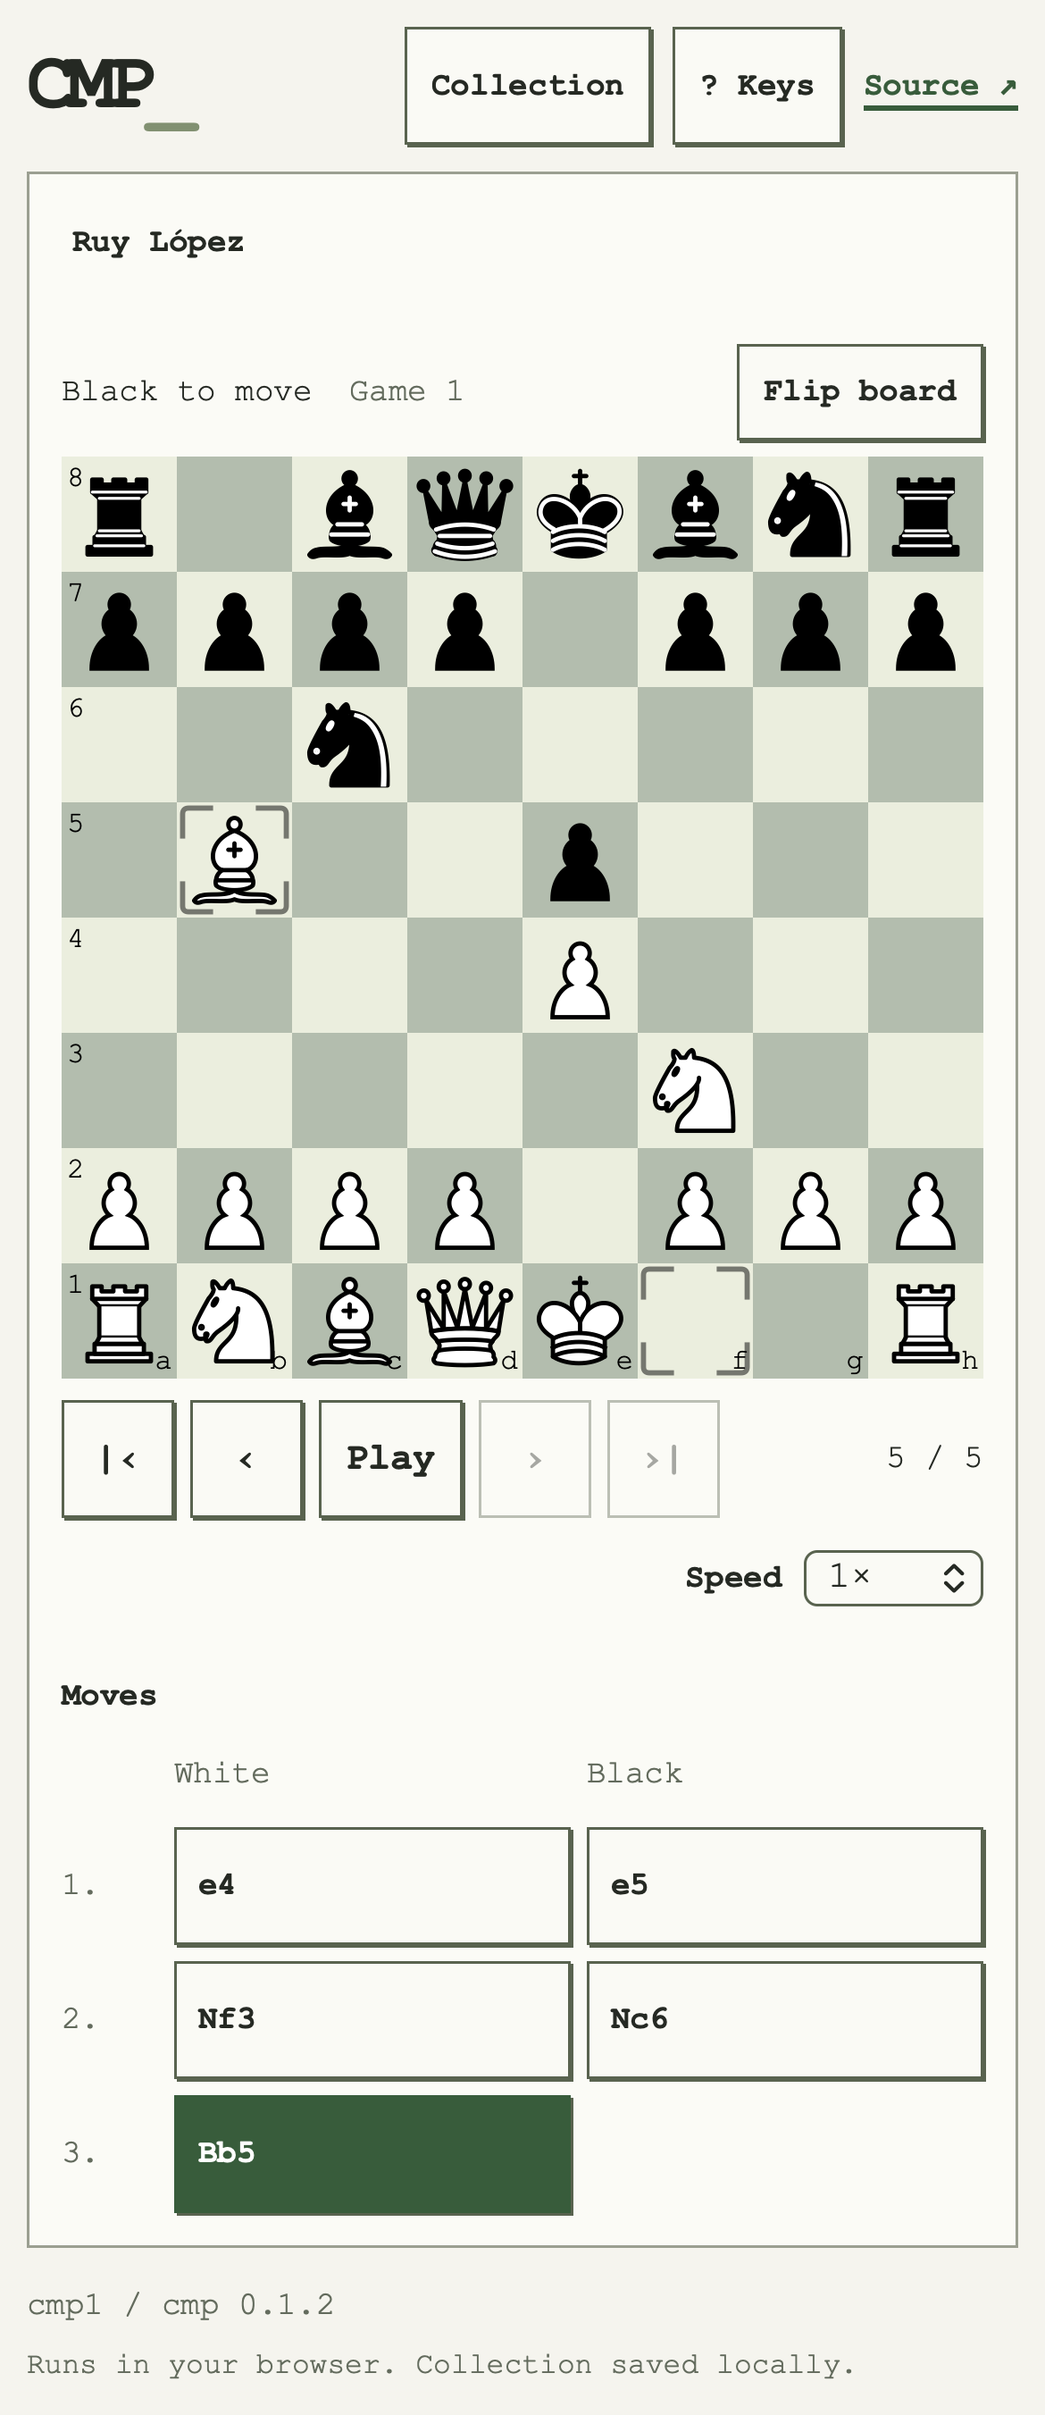
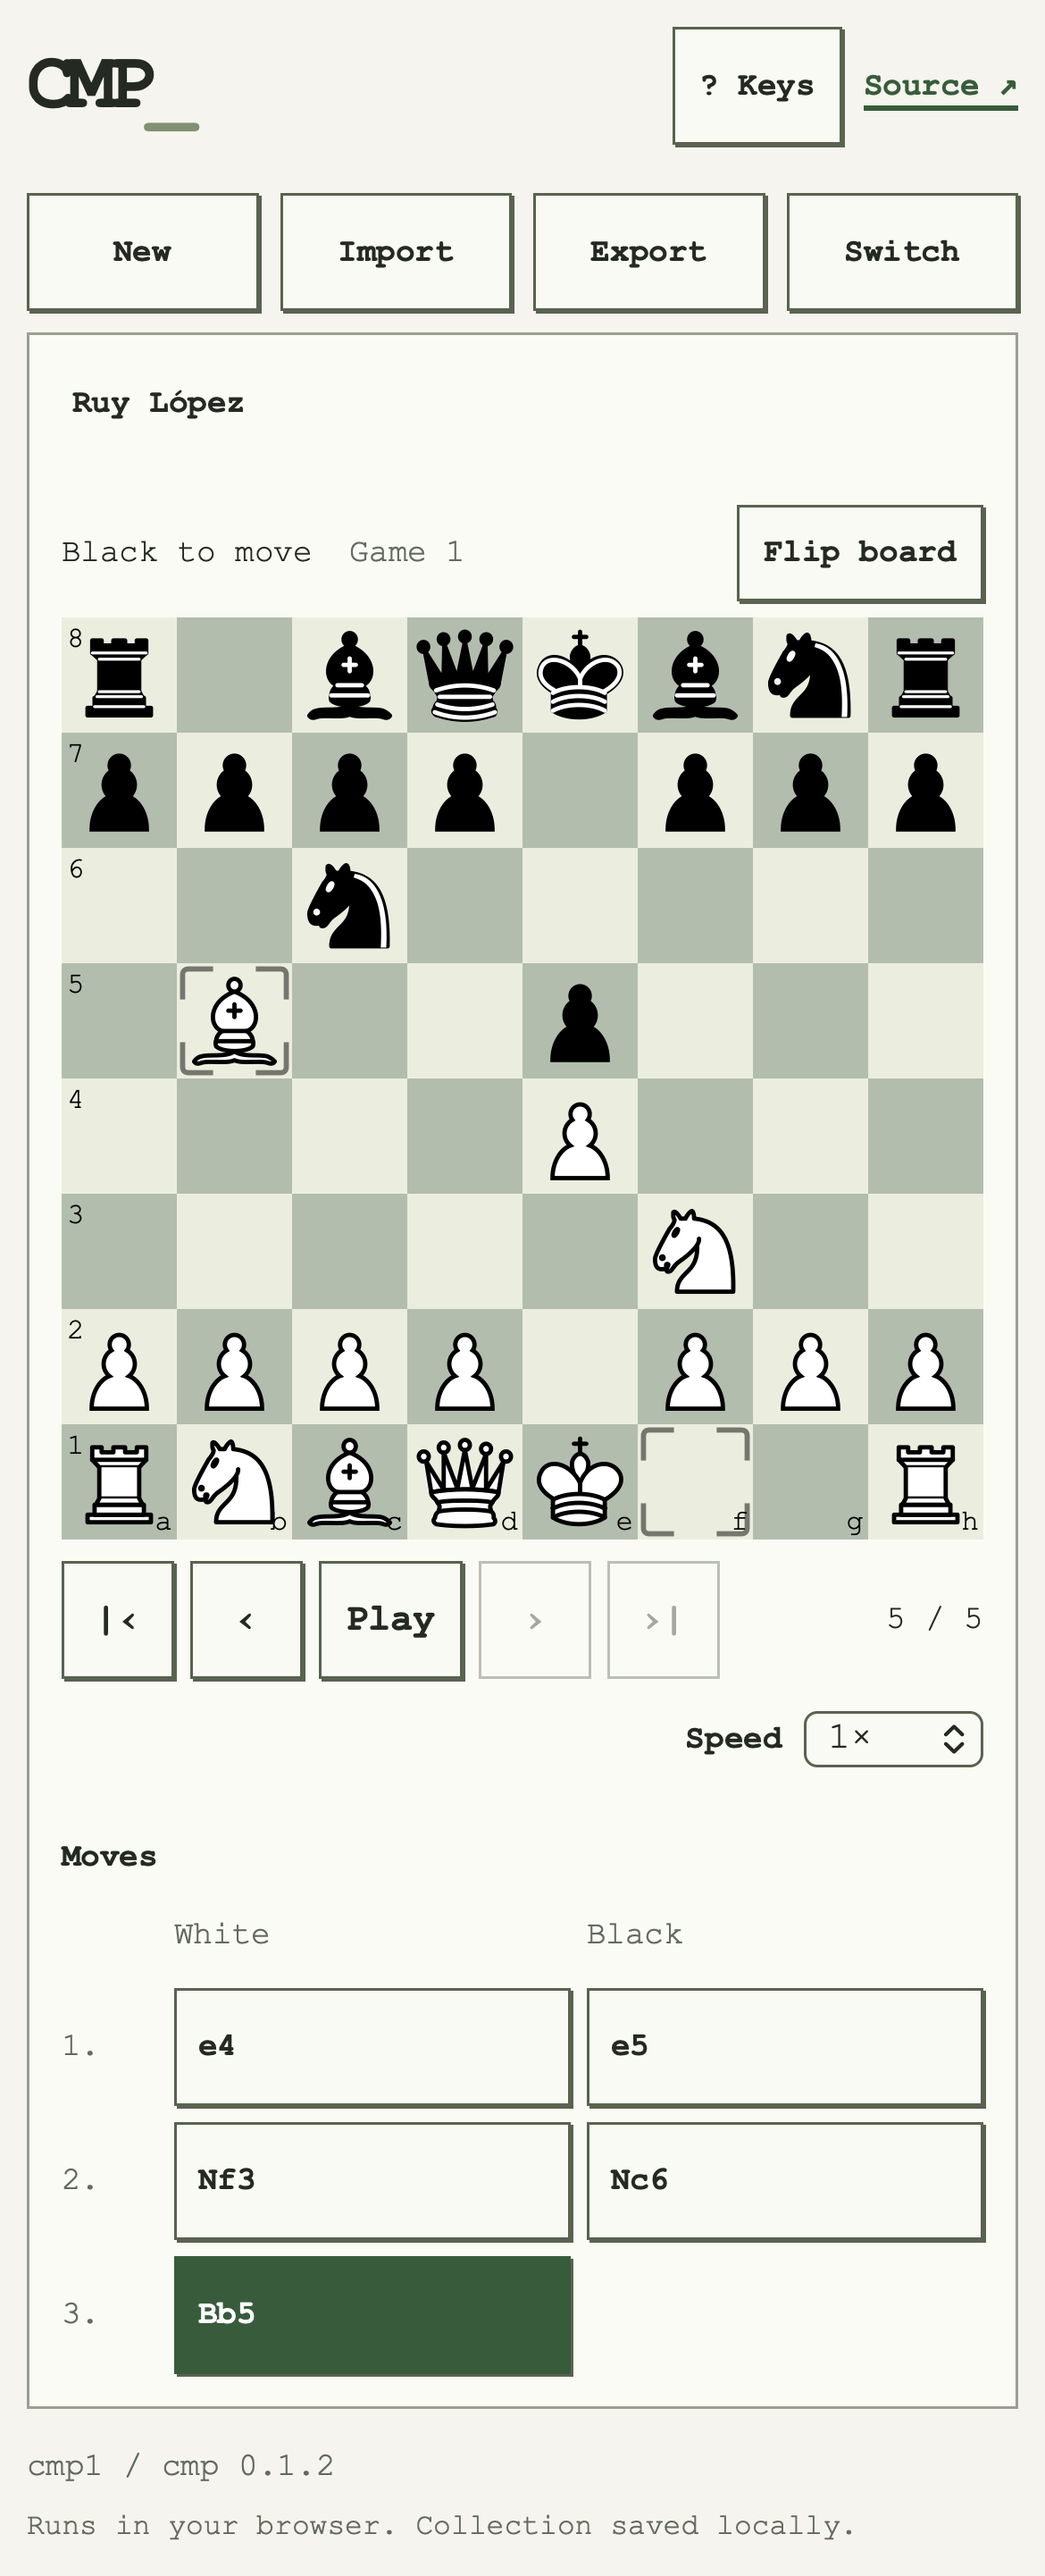
feat: add starter sequences and mobile action bar

diff --git a/src/main.js b/src/main.js
@@ -13,6 +13,7 @@ import './style.css';
 import { browserMode, run } from './client.js';
 import { bindShortcuts } from './shortcuts.js';
 import { bindCollection } from './collection.js';
+import { bindWorkspace } from './workspace.js';
 
 const $ = (id) => document.getElementById(id);
 let data;
@@ -83,7 +84,7 @@ function renderOutput() {
 
 function renderMode() {
   const editing = mode === 'edit' || mode === 'import';
-  $('show-collection').disabled = Boolean(mode);
+  $('switch').disabled = Boolean(mode);
   $('delete-sequence').hidden = mode !== 'edit' || !editTarget;
   if (mode === 'loading') {
     for (const id of ['first', 'previous', 'next', 'last', 'play']) $(id).disabled = true;
@@ -199,7 +200,7 @@ async function openEntry(entry, action = 'view') {
       selectedEntry = entry;
       collection.select(entry.id);
       if (action === 'edit') startDraft('edit');
-      else { showCollection(false); $('viewer').scrollIntoView({ block: 'start' }); }
+      else { workspace.close(); $('viewer').scrollIntoView({ block: 'start' }); }
     }
     status('');
   } catch (error) {
@@ -226,7 +227,7 @@ function startDraft(nextMode, text = '') {
   $(parent).append($('panel-sequence'));
   $('apply').textContent = nextMode === 'import' ? 'Import' : 'Save';
   renderPosition();
-  if (nextMode === 'edit') showCollection(false);
+  if (nextMode === 'edit') workspace.close();
   if (nextMode === 'import') $('sequence-dialog').showModal();
   if (nextMode === 'new') {
     status('', false, 'new-status');
@@ -248,8 +249,7 @@ function cancelDraft() {
   $('new-dialog').close();
   renderPosition();
   status(selectedEntry ? '' : 'Select a sequence or create a new one.');
-  if (!data) showCollection(true);
-  $('show-collection').focus();
+  $('clear').focus();
 }
 
 async function createDraft(generate) {
@@ -259,7 +259,7 @@ async function createDraft(generate) {
     const result = await run(generate ? { moves: Number($('random-count').value) } : { mnemonic: '' });
     if (id !== request || mode !== 'new') return;
     mode = 'edit';
-    showCollection(false);
+    workspace.close();
     data = draftData = result;
     cursor = 0;
     editTarget = null;
@@ -303,7 +303,7 @@ async function validateDraft({ normalize = false, apply = false } = {}) {
       selectedSquare = null;
       $('sequence-dialog').close();
       collection.select(selectedEntry.id);
-      showCollection(false);
+      workspace.close();
       renderPosition();
       status('');
       $('board').focus();
@@ -364,12 +364,6 @@ function input(event) {
   return false;
 }
 
-function showCollection(visible) {
-  $('collection').hidden = !visible;
-  $('show-collection').setAttribute('aria-expanded', String(visible));
-  $('workbench').classList.toggle('collection-open', visible);
-}
-
 async function exportEntries(entries) {
   const id = ++request;
   mode = 'loading';
@@ -401,13 +395,11 @@ const collection = bindCollection({
       data = null;
       collection.select(null);
       renderPosition();
-      showCollection(true);
       status('Deleted.');
     }
   },
 });
 
-$('show-collection').onclick = () => showCollection($('collection').hidden);
 $('delete-sequence').onclick = () => {
   const id = editTarget;
   cancelDraft();
@@ -518,8 +510,8 @@ async function initialize() {
   }
 }
 $('retry').onclick = initialize;
+const workspace = bindWorkspace();
 bindShortcuts();
-showCollection(!collection.first());
 renderPosition();
 initialize().then(() => {
   if (!mode && !selectedEntry && collection.first()) openEntry(collection.first());

diff --git a/tests/mobile/workspace.spec.js b/tests/mobile/workspace.spec.js
@@ -1,15 +1,18 @@
 import { test, expect } from '@playwright/test';
 
 test.beforeEach(async ({ page }) => {
+  await page.addInitScript(() => localStorage.setItem('cmp-sequences', '[]'));
   await page.goto('./');
   await expect(page.locator('#status')).toContainText('Select a sequence');
 });
 
-test('places the collection above the viewer and fits the phone', async ({ page }) => {
-  await expect(page.locator('#collection')).toBeInViewport();
-  const collection = await page.locator('#collection').boundingBox();
-  const viewer = await page.locator('#viewer').boundingBox();
-  expect(collection.y).toBeLessThan(viewer.y);
+test('shows a mobile action bar and opens the list with Switch', async ({ page }) => {
+  await expect(page.locator('#collection')).not.toBeVisible();
+  await expect(page.locator('#mobile-toolbar button')).toHaveText(['New', 'Import', 'Export', 'Switch']);
+  await page.locator('#switch').tap();
+  await expect(page.locator('#collection')).toBeVisible();
+  await page.locator('#switch-dialog').getByRole('button', { name: 'Close', exact: true }).tap();
+  await expect(page.locator('#collection')).not.toBeVisible();
   expect(await page.evaluate(() => document.documentElement.scrollWidth <= innerWidth)).toBe(true);
 });
 
@@ -21,7 +24,7 @@ test('generates, edits, saves and reopens a sequence', async ({ page }) => {
   await expect(page.locator('#position')).toHaveText('0 / 8');
   await page.locator('#sequence-name').fill('Phone test');
   await page.locator('#apply').tap();
-  await page.locator('#show-collection').tap();
+  await page.locator('#switch').tap();
   await page.locator('.sequence-open').tap();
   await expect(page.locator('#panel-sequence')).not.toBeVisible();
   await expect(page.locator('#viewer-title')).toHaveText('Phone test');
@@ -37,7 +40,7 @@ test('cancels a blank draft and deletes a sequence', async ({ page }) => {
   await page.locator('#import').tap();
   await page.locator('#mnemonic').fill('e2e4');
   await page.locator('#apply').tap();
-  await page.locator('#show-collection').tap();
+  await page.locator('#switch').tap();
   await page.locator('.collection-entry').getByRole('button', { name: 'Edit', exact: true }).tap();
   await page.locator('#delete-sequence').tap();
   await expect(page.locator('#viewer-content')).not.toBeVisible();
@@ -50,7 +53,6 @@ test('fits import and export on small phones', async ({ page }) => {
   await page.locator('#mnemonic').fill('e2e4 e7e5');
   await page.locator('#apply').tap();
   await expect(page.locator('#position')).toHaveText('0 / 2');
-  await page.locator('#show-collection').tap();
   await page.locator('#export-collection').tap();
   await page.locator('#tab-pgn').tap();
   await expect(page.locator('#output')).toContainText('[Event "CMP-1"]');

diff --git a/tests/browser/workbench.spec.js b/tests/browser/workbench.spec.js
@@ -3,7 +3,7 @@ import { test, expect } from '@playwright/test';
 const entry = (page, name) => page.locator('.collection-entry').filter({ has: page.getByRole('button', { name, exact: true, includeHidden: true }) });
 
 async function showCollection(page) {
-  if (await page.locator('#collection').isHidden()) await page.locator('#show-collection').click();
+  await expect(page.locator('#collection')).toBeVisible();
 }
 
 async function importSequence(page, name, text) {
@@ -28,6 +28,12 @@ async function newDraft(page, count = null) {
 }
 
 test.beforeEach(async ({ page }) => {
+  await page.addInitScript(() => {
+    if (!sessionStorage.getItem('test-seeded')) {
+      localStorage.setItem('cmp-sequences', '[]');
+      sessionStorage.setItem('test-seeded', '1');
+    }
+  });
   await page.goto('./');
   await expect(page.locator('#status')).toContainText('Select a sequence');
 });
@@ -209,7 +215,7 @@ test('ignores generation after New is cancelled', async ({ page }) => {
 test('exports a batch and keeps moves below the board', async ({ page }) => {
   await importSequence(page, 'One', 'e2e4');
   await importSequence(page, 'Two', 'd2d4');
-  await expect(page.locator('#collection')).not.toBeVisible();
+  await expect(page.locator('#collection')).toBeVisible();
   const board = await page.locator('#board').boundingBox();
   const moves = await page.locator('#moves').boundingBox();
   expect(moves.y).toBeGreaterThan(board.y + board.height);
@@ -219,4 +225,20 @@ test('exports a batch and keeps moves below the board', async ({ page }) => {
   const download = page.waitForEvent('download');
   await page.locator('#download').click();
   expect((await download).suggestedFilename()).toBe('sequences.cmp');
+});
+
+test('seeds defaults once and preserves an intentionally empty collection', async ({ page }) => {
+  await page.evaluate(() => localStorage.removeItem('cmp-sequences'));
+  await page.reload();
+  await expect(page.locator('#viewer-title')).toHaveText('Ruy López');
+  await expect(page.locator('.sequence-open')).toHaveText(['Ruy López', 'Queen’s Gambit', 'Sicilian']);
+  for (const name of ['Queen’s Gambit', 'Sicilian', 'Ruy López']) {
+    await page.getByRole('button', { name, exact: true }).click();
+    await expect(page.locator('#viewer-title')).toHaveText(name);
+    await expect(page.locator('#status')).toBeEmpty();
+  }
+  await page.evaluate(() => localStorage.setItem('cmp-sequences', '[]'));
+  await page.reload();
+  await expect(page.locator('#list-empty')).toBeVisible();
+  await expect(page.locator('.collection-entry')).toHaveCount(0);
 });

diff --git a/index.html b/index.html
@@ -18,18 +18,19 @@
           <span>Chess Mnemonic Protocol</span>
         </div>
         <nav aria-label="Main">
-          <button id="show-collection" aria-controls="collection" aria-expanded="true">Collection</button>
           <button id="show-shortcuts" type="button">? Keys</button>
           <a href="https://github.com/julesora/cmp">Source ↗</a>
         </nav>
       </header>
+      <nav id="mobile-toolbar" aria-label="Sequences"></nav>
       <main id="workbench" class="workbench" aria-label="CMP workbench">
         <aside id="collection" aria-labelledby="list-title">
           <div class="history-title"><h2 id="list-title">Collection</h2></div>
-          <div class="actions">
+          <div id="collection-actions" class="actions">
             <button id="clear" aria-haspopup="dialog">New</button>
             <button id="import" aria-haspopup="dialog">Import</button>
             <button id="export-collection" aria-haspopup="dialog">Export</button>
+            <button id="switch" aria-haspopup="dialog">Switch</button>
           </div>
           <p id="list-empty">No saved sequences yet.</p>
           <div id="sequences"></div>
@@ -85,6 +86,9 @@
         ><span id="privacy">No saved history.</span>
       </footer>
     </div>
+    <dialog id="switch-dialog" aria-label="Switch sequence">
+      <form method="dialog"><button>Close</button></form>
+    </dialog>
     <dialog id="new-dialog" aria-labelledby="new-title">
       <h2 id="new-title">New sequence</h2>
       <form id="generator">

diff --git a/src/style.css b/src/style.css
@@ -626,9 +626,6 @@ summary {
 .workbench {
   display: block;
 }
-.workbench.collection-open {
-  display: grid;
-}
 #viewer-content {
   display: block;
 }
@@ -655,9 +652,6 @@ summary {
   flex-shrink: 0;
 }
 @media (max-width: 780px) {
-  .workbench.collection-open {
-    display: block;
-  }
   header {
     flex-wrap: wrap;
   }
@@ -670,4 +664,44 @@ summary {
 #draft-status:empty,
 #collection-status:empty {
   display: none;
+}
+
+.workbench {
+  display: grid;
+}
+#mobile-toolbar,
+#switch {
+  display: none;
+}
+#switch-dialog {
+  width: 420px;
+}
+#switch-dialog > form {
+  display: flex;
+  justify-content: flex-end;
+}
+@media (max-width: 780px) {
+  .workbench {
+    display: block;
+  }
+  #mobile-toolbar {
+    display: block;
+    position: sticky;
+    top: 0;
+    z-index: 5;
+    padding: 8px 0;
+    background: #f5f4ee;
+  }
+  #collection-actions {
+    display: grid;
+    grid-template-columns: repeat(4, minmax(0, 1fr));
+    gap: 8px;
+    margin: 0;
+  }
+  #collection-actions button {
+    padding: 5px 3px;
+  }
+  #switch {
+    display: block;
+  }
 }

diff --git a/src/collection.js b/src/collection.js
@@ -1,8 +1,14 @@
 const key = 'cmp-sequences';
 const $ = (id) => document.getElementById(id);
-let entries = [];
+let entries = [
+  { name: 'Ruy López', sequence: 'cmp1 e2e4 e7e5 g1f3 b8c6 f1b5' },
+  { name: 'Queen’s Gambit', sequence: 'cmp1 d2d4 d7d5 c2c4 e7e6 b1c3 g8f6' },
+  { name: 'Sicilian', sequence: 'cmp1 e2e4 c7c5 g1f3 d7d6 d2d4 c5d4 f3d4' },
+].map((entry) => ({ ...entry, id: crypto.randomUUID() }));
 try {
-  const saved = JSON.parse(localStorage.getItem(key) || '[]');
+  const stored = localStorage.getItem(key);
+  if (stored === null) localStorage.setItem(key, JSON.stringify(entries));
+  const saved = stored === null ? entries : JSON.parse(stored);
   if (Array.isArray(saved)) entries = saved.filter((entry) =>
     typeof entry?.name === 'string' && typeof entry?.sequence === 'string' &&
     entry.name.length <= 120 && entry.sequence.length <= 4096)

diff --git a/src/workspace.js b/src/workspace.js
@@ -1,0 +1,24 @@
+const $ = (id) => document.getElementById(id);
+
+export function bindWorkspace() {
+  const phone = matchMedia('(max-width: 780px)');
+  const collection = $('collection');
+  const actions = $('collection-actions');
+  const dialog = $('switch-dialog');
+
+  function layout() {
+    dialog.close();
+    if (phone.matches) {
+      $('mobile-toolbar').append(actions);
+      dialog.append(collection);
+    } else {
+      $('workbench').prepend(collection);
+      collection.querySelector('.history-title').after(actions);
+    }
+  }
+
+  $('switch').onclick = () => dialog.showModal();
+  phone.addEventListener('change', layout);
+  layout();
+  return { close: () => dialog.close() };
+}

diff --git a/README.md b/README.md
@@ -13,9 +13,12 @@ Website: https://julesora.github.io/cmp-website/
 Layout
 ------
 
-The board and moves are the main view. Open Collection to choose or manage
-sequences. Selecting an entry opens it for viewing and closes Collection.
-Moves sit below the board.
+The collection stays beside the board on desktop. On phones, New, Import,
+Export and Switch sit above the board; Switch opens the sequence list.
+Moves sit below the board. Selecting a sequence opens it for viewing.
+
+New visitors start with Ruy López, Queen’s Gambit and Sicilian sequences.
+Existing collections are kept, including empty ones.
 
 * New: generate or start blank, then edit. Save adds the draft to the collection.
 * Import: paste text or choose a CMP/UCI file. Check, normalize, then Import.
@@ -105,6 +108,7 @@ Files
 * src/main.js: interface and board controls
 * src/client.js: server and browser requests
 * src/collection.js: saved sequences
+* src/workspace.js: desktop and phone layout
 * src/shortcuts.js: keyboard controls
 * src/worker.js: Python browser worker
 * scripts/browser.py: browser runtime files
